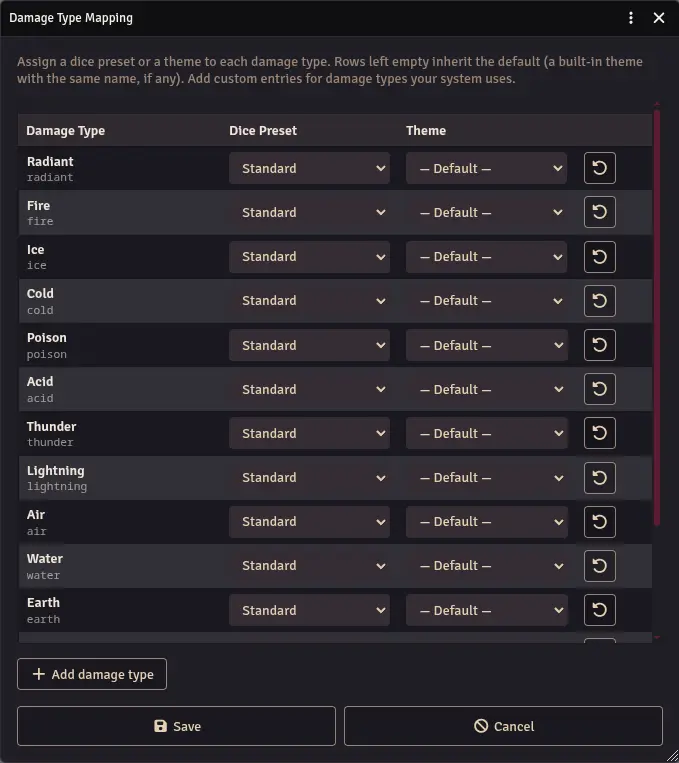
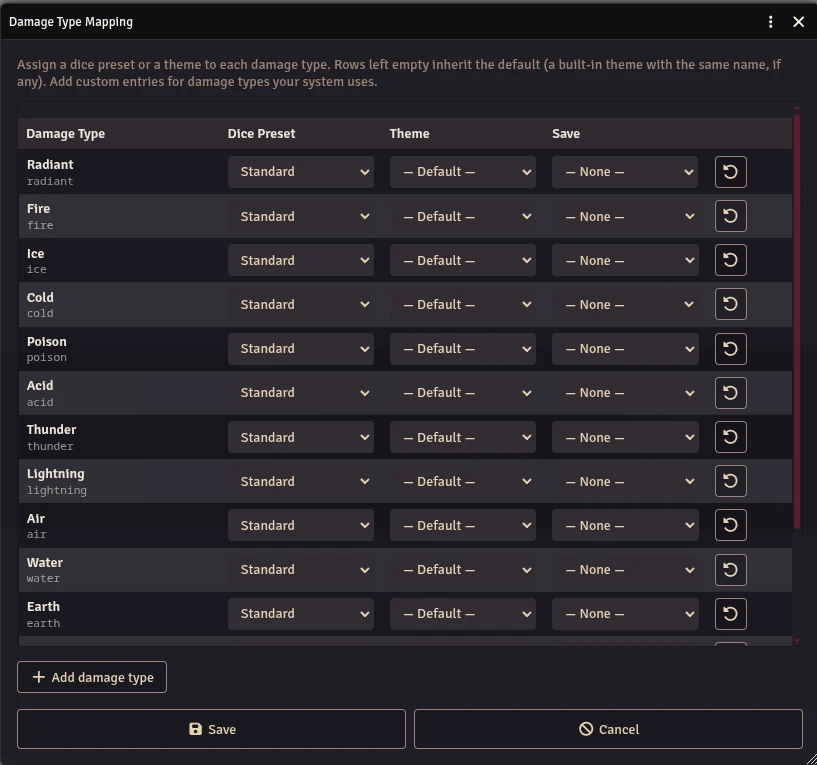
update docs

diff --git a/docs/src/content/docs/guide/preferences.md b/docs/src/content/docs/guide/preferences.md
@@ -51,9 +51,12 @@ The GM can configure which appearance is used for each damage type. The **Damage
 From the mapping dialog, the GM can:
 
 - **Map each damage type** to a specific dice preset (system) and/or theme (colorset).
+- **Map a damage type to a saved configuration** - The "Save" column lets you pick one of your saved dice configurations (created from the Profile & Data tab). When a save is selected, it overrides the preset and theme columns, applying the full saved appearance instead. This is useful when you want a damage type to use a complete custom look that you have already set up.
 - **Add custom damage types** by providing an id and a display label.
 - **Delete custom damage types** that are no longer needed.
 - **Reset to defaults** to restore the built-in mappings.
+
+If a saved configuration referenced by a mapping is deleted, the mapping will show a broken reference indicator. You can fix it by selecting a different save or clearing the save column.
 
 Built-in damage types include: fire, acid, cold, radiant, poison, thunder, lightning, air, water, earth, force, psychic, necrotic, and ice.
 
